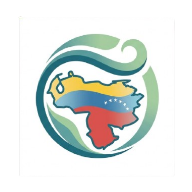
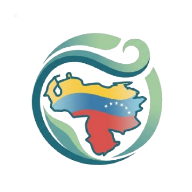
Header: quita fondo blanco del emblema (flood-fill), tamaño atado al texto (1.5em), sin recorte circular; SW v5

Changed region(s): [[0.1562, 0.1875, 0.8438, 0.875], [0.4062, 0.1562, 0.5938, 0.1875], [0.7188, 0.1875, 0.75, 0.2188]]

diff --git a/public/sw.js b/public/sw.js
@@ -3,7 +3,7 @@
 //  - Navegaciones (HTML): network-first con respaldo al index cacheado (offline).
 //  - Assets estáticos con hash (JS/CSS/imágenes/fuentes): cache-first + relleno en segundo plano.
 //  - Cache versionado; se limpian versiones viejas en 'activate'.
-const VERSION = 'respira-v4'
+const VERSION = 'respira-v5'
 const CACHE = VERSION
 
 // App-shell mínimo. Los bundles de Vite (/assets/*) llevan hash y se cachean

diff --git a/src/styles.css b/src/styles.css
@@ -69,7 +69,7 @@ button:focus-visible, a:focus-visible, textarea:focus-visible {
   display: flex; align-items: center; gap: 7px;
 }
 .brand-mark {
-  width: 40px; height: 40px; border-radius: 50%;
+  width: 1.5em; height: 1.5em;
   object-fit: contain; display: inline-block;
 }
 .brand-text { font-family: 'Lora', Georgia, serif; line-height: 1; }
